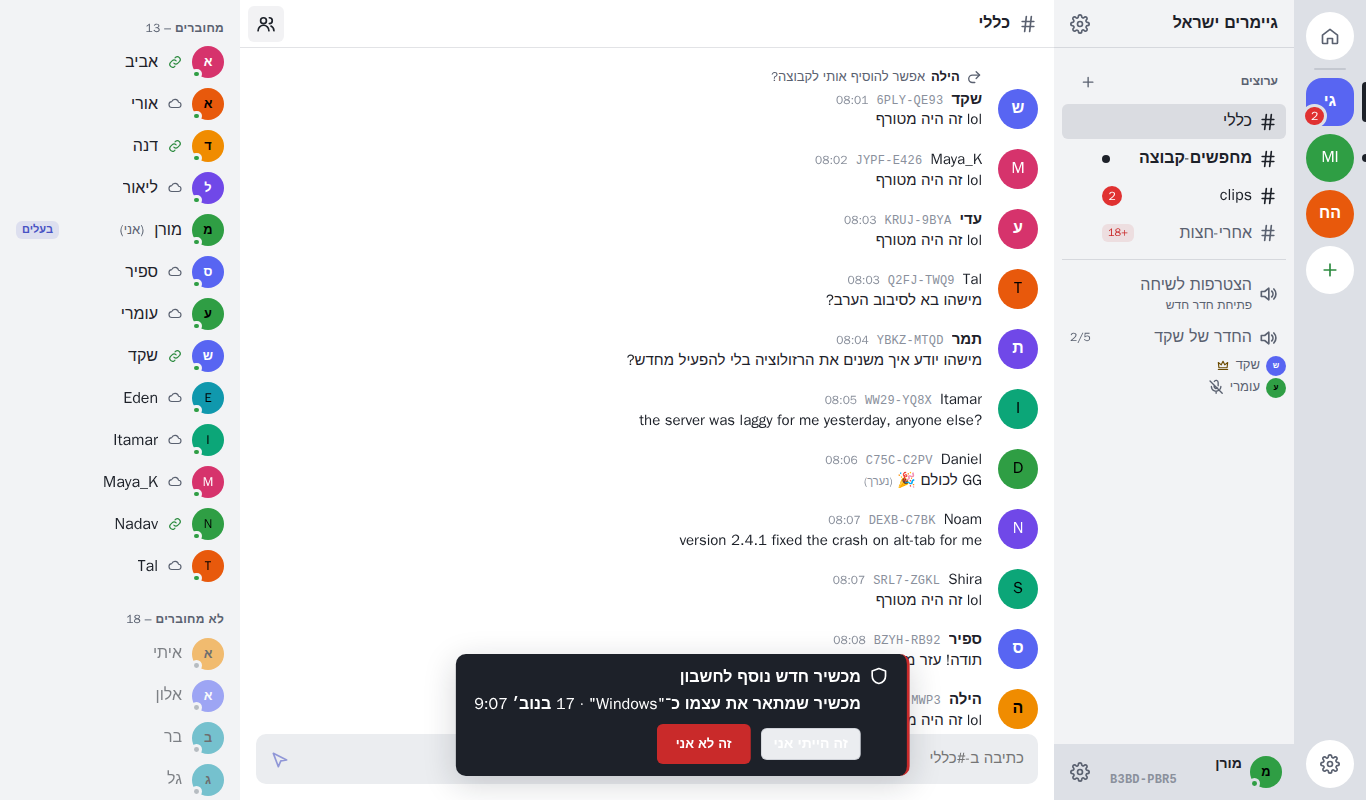
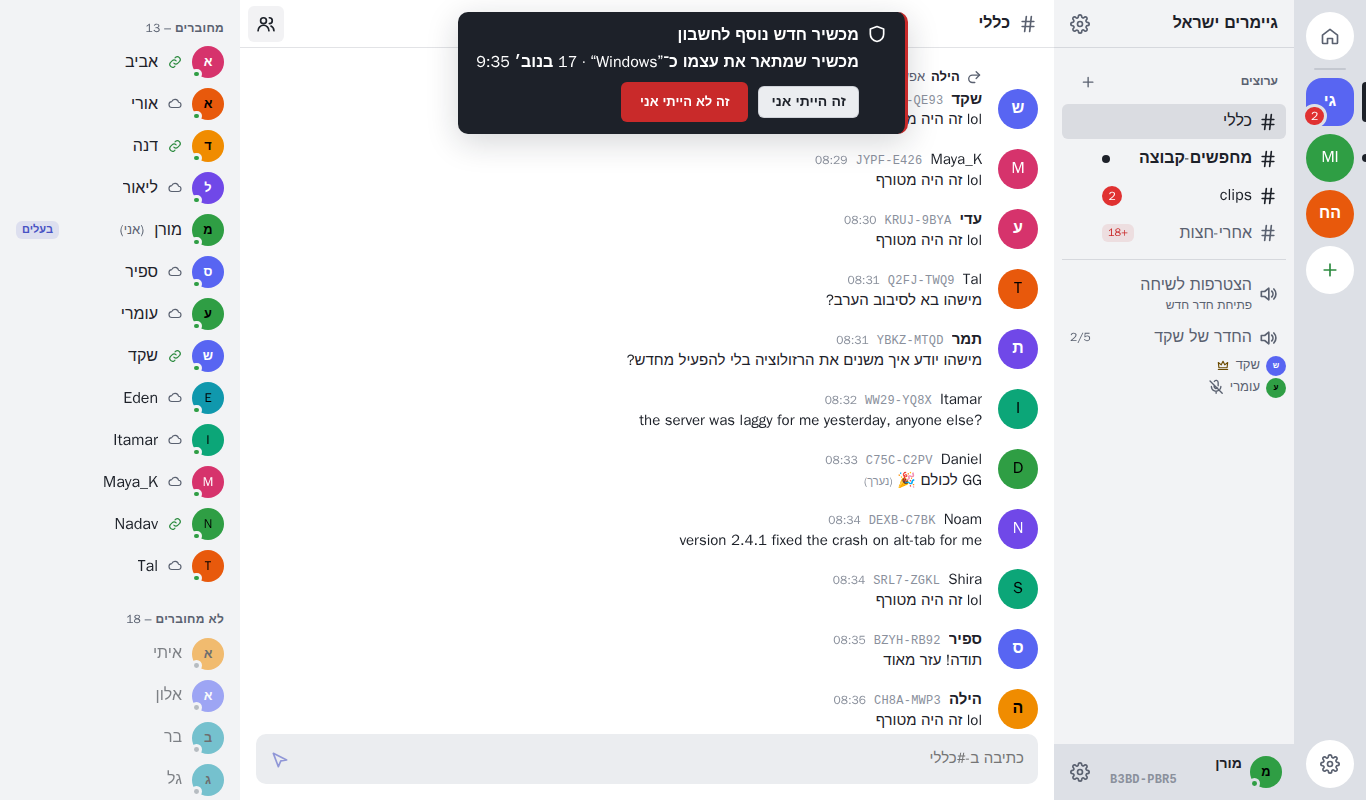
ui: device notice, UX on #408: label isolated with its quotes, readable "It was me", at the top clear of the composer
- {label} sits in FSI...PDI in both catalogs and renders as <bdi>“label”</bdi> (cleaned:
  bidi and control stripped, 64 after stripping).
- "It was me" keeps the normal secondary look on the inverted toast (text on input bg).
- The notices have their own column at the top, so they never cover the composer;
  they stay until answered.
- he: "זה לא הייתי אני"; clearer step 2 (he/en). Shots 430-432 re-taken.

Changed region(s): [[0.3075, 0.8125, 0.6764, 1.0], [0.3382, 0.0, 0.6764, 0.1875]]

diff --git a/ui/src/screens/shell/DeviceNotice.tsx b/ui/src/screens/shell/DeviceNotice.tsx
@@ -16,6 +16,8 @@ export function DeviceNotices() {
   const [help, setHelp] = useState(false);
   return (
     <>
+      {notices.length > 0 && (
+        <div className="device-notices">
       {notices.map((d) => (
         <div key={d.at} className="toast device-notice" role="alert">
           <ShieldIcon />
@@ -24,12 +26,12 @@ export function DeviceNotices() {
               <FormattedMessage id="deviceNotice.title" />
             </strong>
             <span>
-              {d.label ? <FormattedMessage id="deviceNotice.label" values={{ label: <bdi className="user-text">{d.label}</bdi> }} /> : <FormattedMessage id="deviceNotice.unknown" />}
+              {d.label ? <FormattedMessage id="deviceNotice.label" values={{ label: <bdi className="user-text">“{d.label}”</bdi> }} /> : <FormattedMessage id="deviceNotice.unknown" />}
               {' · '}
               <FormattedDate value={d.at} day="numeric" month="short" /> <FormattedTime value={d.at} />
             </span>
             <div className="actions">
-              <button type="button" className="secondary small" onClick={() => store.dismissDeviceNotice(d.at)}>
+              <button type="button" className="secondary small device-notice-me" onClick={() => store.dismissDeviceNotice(d.at)}>
                 <FormattedMessage id="deviceNotice.me" />
               </button>
               <button type="button" className="danger small" onClick={() => setHelp(true)}>
@@ -39,6 +41,8 @@ export function DeviceNotices() {
           </div>
         </div>
       ))}
+        </div>
+      )}
       <Dialog open={help} onClose={() => setHelp(false)} title={intl.formatMessage({ id: 'deviceNotice.help.title' })} className="device-notice-help">
         <p>
           <FormattedMessage id="deviceNotice.help.intro" />

diff --git a/ui/src/test/deviceNotice.test.tsx b/ui/src/test/deviceNotice.test.tsx
@@ -31,8 +31,10 @@ describe('new device added notice', () => {
     const [notice] = notices();
     expect(within(notice).getByText('A new device was added to your account')).toBeTruthy();
     // Untrusted text from the new device: quoted, never the headline.
-    expect(notice.textContent).toContain('a device that calls itself "Windows laptop"');
-    expect(within(notice).getByText('Windows laptop').tagName).toBe('BDI');
+    expect(notice.textContent?.replace(/[\u2068\u2069]/g, '')).toContain('a device that calls itself “Windows laptop”');
+    expect(within(notice).getByText('“Windows laptop”').tagName).toBe('BDI');
+    // UX: at the top, not over the composer.
+    expect(notice.parentElement?.className).toBe('device-notices');
     expect(notice.textContent).toMatch(/Nov 17/);
     // Re-sent until acknowledged: one notice per device, not two.
     act(() => core.simulateDeviceAdded('Windows laptop', at));

diff --git a/ui/src/styles/app.css b/ui/src/styles/app.css
@@ -3465,7 +3465,33 @@ input.switch:disabled {
   font-size: 0.875rem;
 }
 
-/* "A new device was added to your account": stays until answered. */
+/* "A new device was added to your account": stays until answered, at the top, clear of the composer. */
+.device-notices {
+  position: fixed;
+  inset-block-start: 0.75rem;
+  inset-inline: 0;
+  z-index: 41;
+  display: grid;
+  justify-items: center;
+  gap: 0.5rem;
+  padding-inline: 1rem;
+  pointer-events: none;
+}
+
+.device-notices > .toast {
+  position: static;
+  transform: none;
+  max-width: min(32rem, 100%);
+  pointer-events: auto;
+}
+
+/* The toast inverts the colours; this button keeps the normal secondary look (UX: >= 4.5:1). */
+.device-notice .device-notice-me {
+  background: var(--bg-input);
+  border-color: var(--border);
+  color: var(--text);
+}
+
 .device-notice {
   align-items: flex-start;
   border-inline-start: 3px solid var(--danger);

diff --git a/ui/src/screens/shell/Shell.tsx b/ui/src/screens/shell/Shell.tsx
@@ -355,8 +355,8 @@ export function Shell() {
       />
 
       {/* Toasts stack in one column, so two at once never overlap. */}
+      <DeviceNotices />
       <div className="toasts">
-        <DeviceNotices />
         {serverGone && (
           <div className="toast" role="status" key={serverGone.at}>
             <FormattedMessage id={`server.gone.${serverGone.reason}`} values={{ name: serverGone.name }} />
